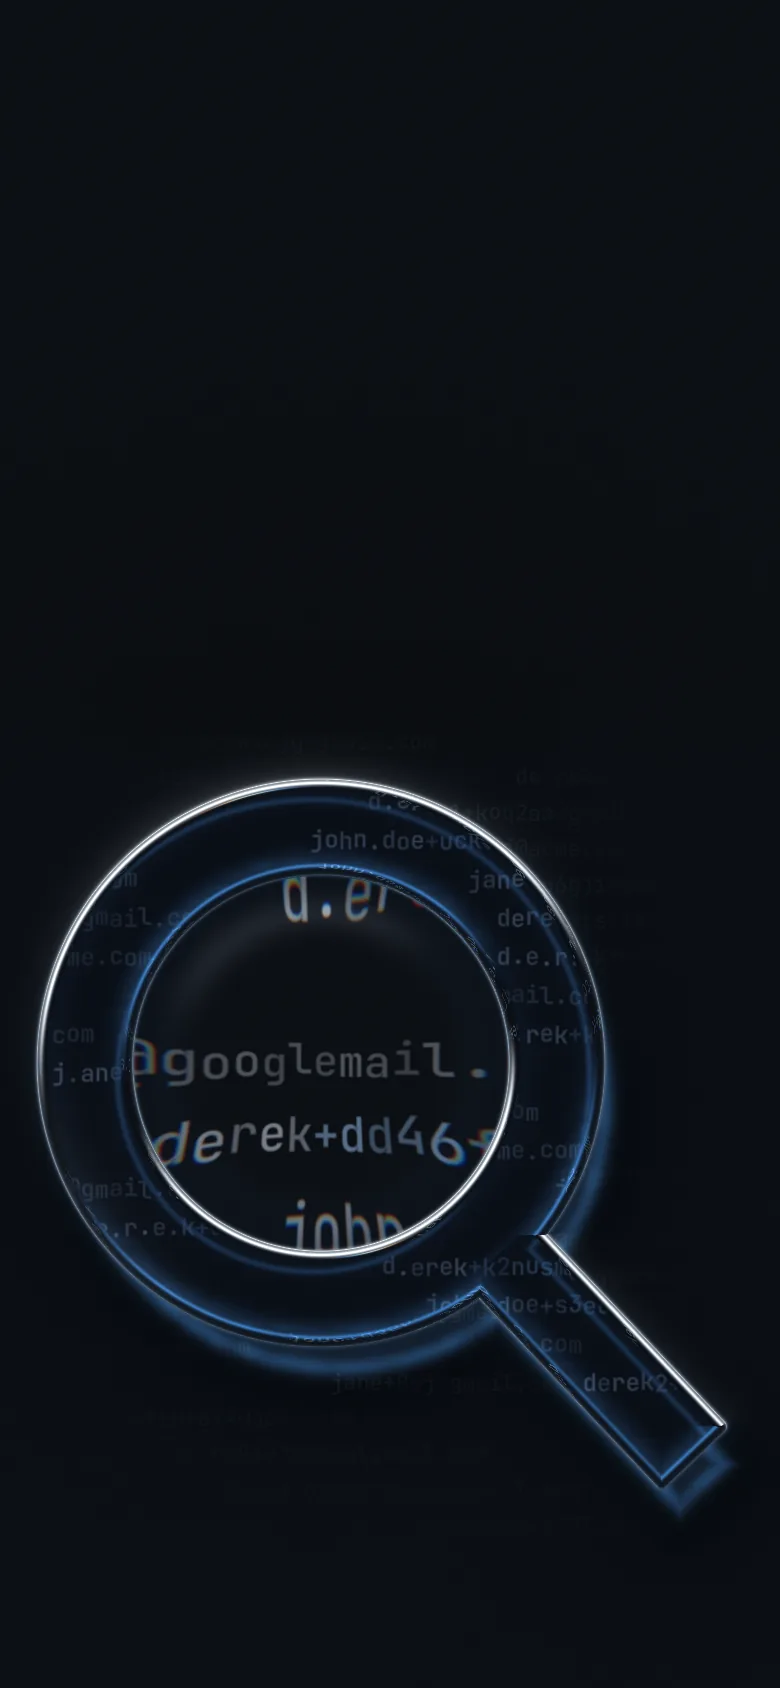
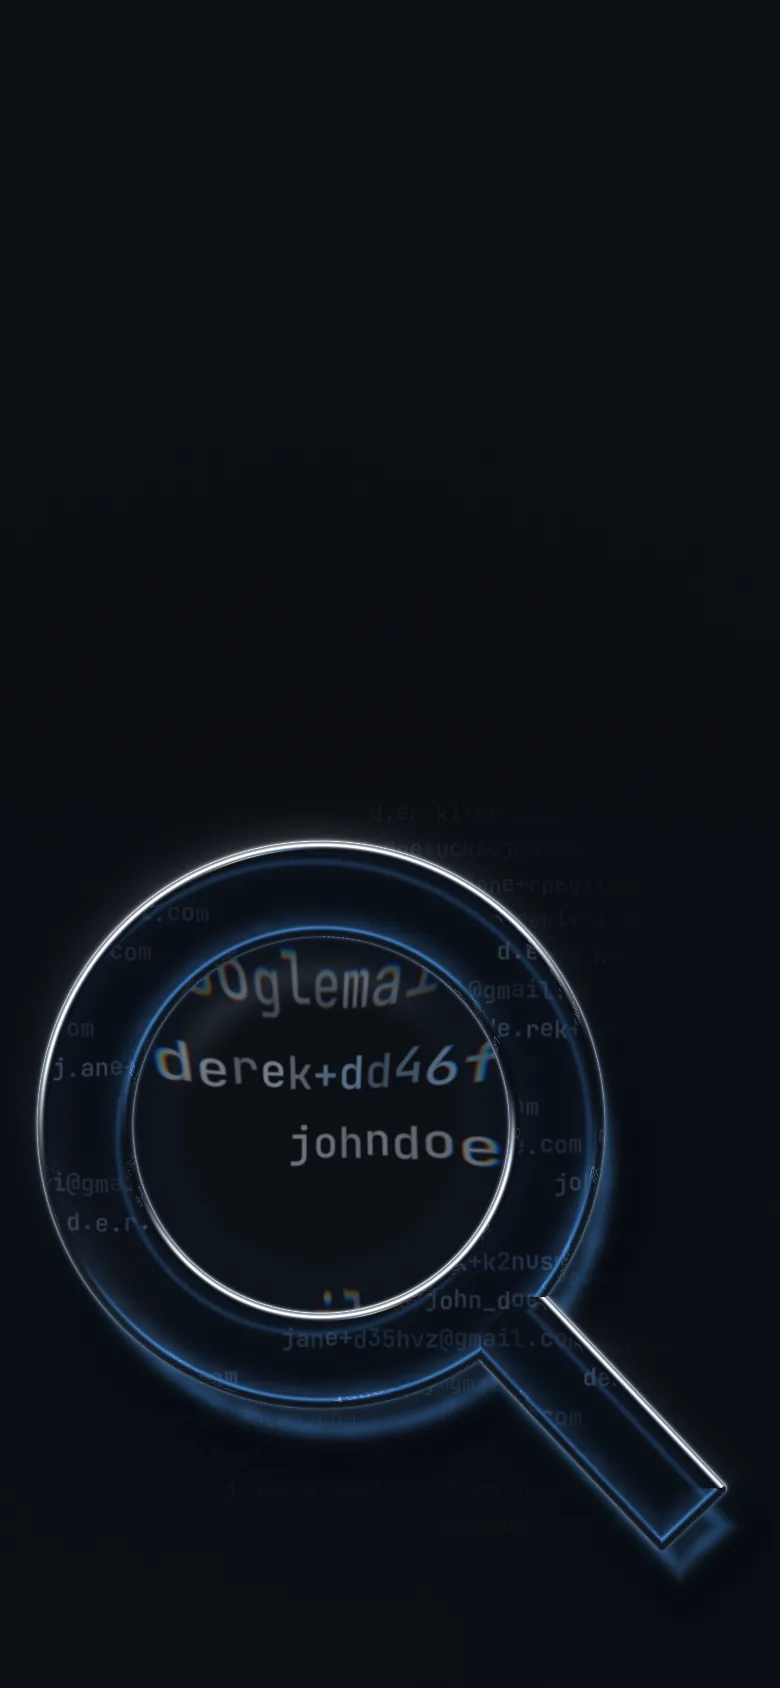
docs: say what abusive does in the tagline and drop the status pill
"Catch the same person signing up twice." replaces "One free plan
per person." on the cover, the social card and its alt text. The
"5 addresses -> 1 inbox" pill and its same-inbox fixture are removed.
The layout test now uses the copy box measured at each width.

Changed region(s): [[0.0308, 0.4313, 0.9538, 0.955]]

diff --git a/test/cover.js b/test/cover.js
@@ -5,8 +5,6 @@ const { join } = require('node:path')
 
 const { default: test } = require('ava')
 
-const { createAbusive, isSibling } = require('../src')
-
 const scene = import('../docs/cover/scene.js')
 const content = import('../docs/cover/content.js')
 const brand = import('../docs/brand/mark.js')
@@ -15,14 +13,25 @@ const ROOT = join(__dirname, '..')
 const read = file => readFileSync(join(ROOT, file), 'utf8')
 
 const DESKTOP_TEXT = {
-  right: 528,
-  top: 269,
-  bottom: 631,
-  bodyRight: 504,
-  wordmarkBottom: 361
+  right: 614,
+  top: 247,
+  bottom: 653,
+  bodyRight: 512,
+  wordmarkBottom: 339
 }
 
-const PILL_ADDRESSES = 5
+const MEASURED_TEXT = [
+  [[1440, 900], DESKTOP_TEXT],
+  [
+    [1024, 768],
+    { right: 479, top: 207, bottom: 561, bodyRight: 455, wordmarkBottom: 272 }
+  ],
+  [
+    [1920, 1080],
+    { right: 614, top: 337, bottom: 743, bodyRight: 512, wordmarkBottom: 429 }
+  ]
+]
+
 const DEGREES = Math.PI / 180
 const ANGLE_TOLERANCE = 1e-6
 
@@ -35,9 +44,6 @@ const wgslConstant = (wgsl, name) => {
     ? Number(degrees[1]) * DEGREES
     : Number(value.replace(/u$/, ''))
 }
-
-const sameInboxOnly = existing =>
-  createAbusive({ sibling: { lookup: () => [existing], min: 2 } })
 
 test('a narrow cover is the mobile layout and a wide cover is the desktop one', async t => {
   const { layoutFor } = await scene
@@ -53,12 +59,8 @@ test('the desktop scrim starts at the measured ink', async t => {
 
 test('the mark outline clears the wordmark and stays inside the desktop cover', async t => {
   const { layoutFor, MARK_OUTLINE } = await scene
-  for (const [width, height] of [
-    [1440, 900],
-    [1024, 768],
-    [1920, 1080]
-  ]) {
-    const layout = layoutFor(width, height, DESKTOP_TEXT)
+  for (const [[width, height], text] of MEASURED_TEXT) {
+    const layout = layoutFor(width, height, text)
     const c = Math.cos(layout.angle)
     const s = Math.sin(layout.angle)
     for (const [x, y] of MARK_OUTLINE) {
@@ -67,36 +69,11 @@ test('the mark outline clears the wordmark and stays inside the desktop cover', 
       t.true(px >= 0 && px <= width, `${width}x${height} x=${px}`)
       t.true(py >= 0 && py <= height, `${width}x${height} y=${py}`)
       t.true(
-        py > DESKTOP_TEXT.wordmarkBottom || px > DESKTOP_TEXT.right,
+        py > text.wordmarkBottom || px > text.right,
         `${width}x${height} overlaps the wordmark at ${px},${py}`
       )
     }
   }
-})
-
-test('the status pill counts five same-inbox siblings of one another', async t => {
-  const { SAME_INBOX } = await content
-  const pill = read('_coverpage.md').match(/data-status-text>([^<]+)</)[1]
-  t.is(pill, `${PILL_ADDRESSES} addresses &rarr; 1 inbox`)
-  t.is(new Set(SAME_INBOX).size, PILL_ADDRESSES)
-  for (const candidate of SAME_INBOX) {
-    for (const existing of SAME_INBOX) {
-      if (candidate === existing) continue
-      t.is(
-        await sameInboxOnly(existing).findSibling(candidate),
-        existing,
-        `${candidate} is not the same inbox as ${existing}`
-      )
-    }
-  }
-})
-
-test('a numbered sibling alone does not count as the same inbox', async t => {
-  t.is(
-    await sameInboxOnly('derek1@gmail.com').findSibling('derek2@gmail.com'),
-    null
-  )
-  t.true(isSibling('derek2@gmail.com', 'derek1@gmail.com'))
 })
 
 test('encoded rows carry each inbox line split at the local part', async t => {

diff --git a/index.html b/index.html
@@ -17,10 +17,10 @@
 
   <meta property="og:title" content="abusive: refuse repeat signups to your free plan, for Node.js" />
   <meta property="og:description" content="Detect repeat signups abusing your free plan: numbered, +tag and dotted variants of addresses you already have, second accounts from one IP, plus free email providers." />
-  <meta property="og:image" content="https://abusive.js.org/static/banner.jpg?v=234e60be" />
+  <meta property="og:image" content="https://abusive.js.org/static/banner.jpg?v=90281261" />
   <meta property="og:image:width" content="2400" />
   <meta property="og:image:height" content="1260" />
-  <meta property="og:image:alt" content="abusive logo, a magnifying glass, with the tagline: One free plan per person." />
+  <meta property="og:image:alt" content="abusive logo, a magnifying glass, with the tagline: Catch the same person signing up twice." />
   <meta property="og:url" content="https://abusive.js.org/" />
   <meta property="og:site_name" content="abusive" />
   <meta property="og:type" content="website" />
@@ -31,8 +31,8 @@
   <meta name="twitter:creator" content="@Kikobeats" />
   <meta name="twitter:title" content="abusive: refuse repeat signups to your free plan, for Node.js" />
   <meta name="twitter:description" content="Detect repeat signups abusing your free plan: numbered, +tag and dotted variants of addresses you already have, second accounts from one IP, plus free email providers." />
-  <meta name="twitter:image" content="https://abusive.js.org/static/banner.jpg?v=234e60be" />
-  <meta name="twitter:image:alt" content="abusive logo, a magnifying glass, with the tagline: One free plan per person." />
+  <meta name="twitter:image" content="https://abusive.js.org/static/banner.jpg?v=90281261" />
+  <meta name="twitter:image:alt" content="abusive logo, a magnifying glass, with the tagline: Catch the same person signing up twice." />
   <meta name="twitter:label1" content="Installation" />
   <meta name="twitter:data1" content="npm install abusive free-email-domains" />
 

diff --git a/docs/cover/cover.css b/docs/cover/cover.css
@@ -128,6 +128,7 @@
   line-height: 1.18;
   letter-spacing: -0.018em;
   max-width: 14em;
+  text-wrap: balance;
   color: color-mix(in srgb, var(--cover-text) 92%, var(--cover-bg));
 }
 
@@ -251,33 +252,6 @@
 
 .cover__link:hover .cover__arrow { transform: translateX(3px); }
 
-.cover__status {
-  position: absolute;
-  right: clamp(24px, 4vw, 56px);
-  bottom: 26px;
-  margin: 0;
-  display: flex;
-  align-items: center;
-  gap: 10px;
-  font: 400 12.5px/1.4 var(--cover-font-mono);
-  color: var(--cover-muted);
-  letter-spacing: 0.01em;
-  font-variant-numeric: tabular-nums;
-  padding: 6px 12px;
-  border-radius: 999px;
-  background: color-mix(in srgb, var(--cover-bg) 82%, transparent);
-  -webkit-backdrop-filter: blur(6px);
-  backdrop-filter: blur(6px);
-}
-
-.cover__pulse {
-  width: 7px;
-  height: 7px;
-  border-radius: 50%;
-  background: var(--cover-accent);
-  box-shadow: 0 0 0 3px color-mix(in srgb, var(--cover-accent) 22%, transparent);
-}
-
 .cover__link--primary {
   background: var(--cover-accent);
   border-color: var(--cover-accent);
@@ -301,7 +275,6 @@
   .cover__install { margin-top: 26px; }
   .cover__links { margin-top: 24px; }
   .cover__still img { object-position: 50% 100%; }
-  .cover__status { right: 50%; transform: translateX(50%); bottom: 18px; white-space: nowrap; }
 }
 
 @media (prefers-reduced-motion: reduce) {

diff --git a/docs/cover/scene.js b/docs/cover/scene.js
@@ -17,7 +17,7 @@ const MOBILE_ANGLE = 0
 const ANGLE_SWAY = 0.035
 const MOBILE_GUTTER = 16
 const MOBILE_SCALE_MAX = 7
-const MOBILE_STATUS_RESERVE = 56
+const MOBILE_BOTTOM_MARGIN = 24
 const DRIFT_PX_PER_SECOND = 7
 const RING_SAMPLES = 48
 
@@ -97,7 +97,7 @@ function mobileLayout (width, height, textBox) {
   )
   const markWidth = (units.right - units.left) * scale
   const markHeight = (units.bottom - units.top) * scale
-  const floor = height - MOBILE_STATUS_RESERVE
+  const floor = height - MOBILE_BOTTOM_MARGIN
   const boxTop = Math.min(
     top + Math.max(24, (floor - top - markHeight) * 0.5),
     floor - markHeight - 12

diff --git a/docs/brand/banner.js b/docs/brand/banner.js
@@ -10,7 +10,7 @@ export const BANNER = {
   chip: '#161b23',
   chipBorder: '#2a313c',
   wordmark: { text: 'abusive', size: 132, tracking: -0.035 },
-  tagline: { text: 'One free plan per person.', size: 40 },
+  tagline: { text: 'Catch the same person signing up twice.', size: 40 },
   command: {
     prompt: '$ ',
     text: 'npm install abusive free-email-domains',

diff --git a/docs/cover/content.js b/docs/cover/content.js
@@ -1,11 +1,3 @@
-export const SAME_INBOX = Object.freeze([
-  'derek@gmail.com',
-  'd.erek@gmail.com',
-  'derek+promo@gmail.com',
-  'de.rek+3@googlemail.com',
-  'd.e.r.e.k@gmail.com'
-])
-
 export const INBOX_LINES = Object.freeze([
   ['derek', 'gmail.com'],
   ['d.erek', 'gmail.com'],

diff --git a/_coverpage.md b/_coverpage.md
@@ -13,7 +13,7 @@
         <img class="cover__logo" src="static/mark.svg" alt="" width="60" height="60">
         abusive
       </h1>
-      <p class="cover__tagline">One free plan per&nbsp;person.</p>
+      <p class="cover__tagline">Catch the same person signing&nbsp;up&nbsp;twice.</p>
       <div class="cover__install">
         <div class="cover__meta">
           <button type="button" class="cover__copy-prompt" data-copy-prompt data-prompt="Wire abusive into this project's signup: run npm install abusive free-email-domains, create one instance with require('abusive')({ rejectedDomains: require('free-email-domains'), sibling: { lookup }, ip: { store }, secret: process.env.ABUSIVE_SECRET }) where lookup is stripeLookup from abusive/stripe or a function returning the registered emails at a domain and store is redisStore from abusive/redis with timeoutMs set, refuse the signup with a neutral message when await isAbusive({ email }) is true, check again with await isAbusive({ email, ip, verified: true }) once the address is verified, and apply isRejectedEmail only if this project refuses free email providers."><svg viewBox="0 0 24 24" width="16" height="16" aria-hidden="true"><rect x="8" y="8" width="12" height="12" rx="2.5"/><path d="M16 8V6.5A2.5 2.5 0 0 0 13.5 4h-7A2.5 2.5 0 0 0 4 6.5v7A2.5 2.5 0 0 0 6.5 16H8"/></svg><span data-copy-prompt-label>Copy prompt</span></button>
@@ -33,5 +33,4 @@
         </a>
       </nav>
     </div>
-    <p class="cover__status" data-cover-status aria-hidden="true"><i class="cover__pulse"></i><span data-status-text>5 addresses &rarr; 1 inbox</span></p>
   </div>

diff --git a/docs/cover/README.md b/docs/cover/README.md
@@ -7,7 +7,7 @@ The website's cover is a live WebGPU scene rendered with [vgpu](https://vgpu.sh)
 - `_coverpage.md` holds the markup. docsify renders it, and `docs/js/main.js` imports `main.js` once the markup is in the page.
 - `main.js` imports `vgpu@0.6.0` from jsdelivr, so nothing is bundled. It renders one fullscreen effect (`shaders/lens.wgsl`, prepared into `shaders.js`) with the glyph atlas (`atlas.png`, laid out by `atlas-layout.js`).
 - `scene.js` lays the mark out from `docs/brand/mark.js`, so the glass is the committed logo. `test/cover.js` checks that the shader's copy of the geometry is the same numbers.
-- `content.js` holds the inbox lines on the wall and the same-inbox addresses behind the status pill. `test/cover.js` checks every pill address against the real `findSibling`.
+- `content.js` holds the inbox lines on the wall.
 - Rendering pauses when the cover is off screen or the tab is hidden, and the DPR is capped at 2.
 - Without WebGPU, when the adapter fails, or with `prefers-reduced-motion`, the page keeps the static frame from `fallback-*.webp`. `?fallback=1` forces it. `?timing` collects GPU frame times in `window.__lensGpuMs` where `timestamp-query` exists.
 - The theme follows `prefers-color-scheme` and `data-theme`, and switches live.
